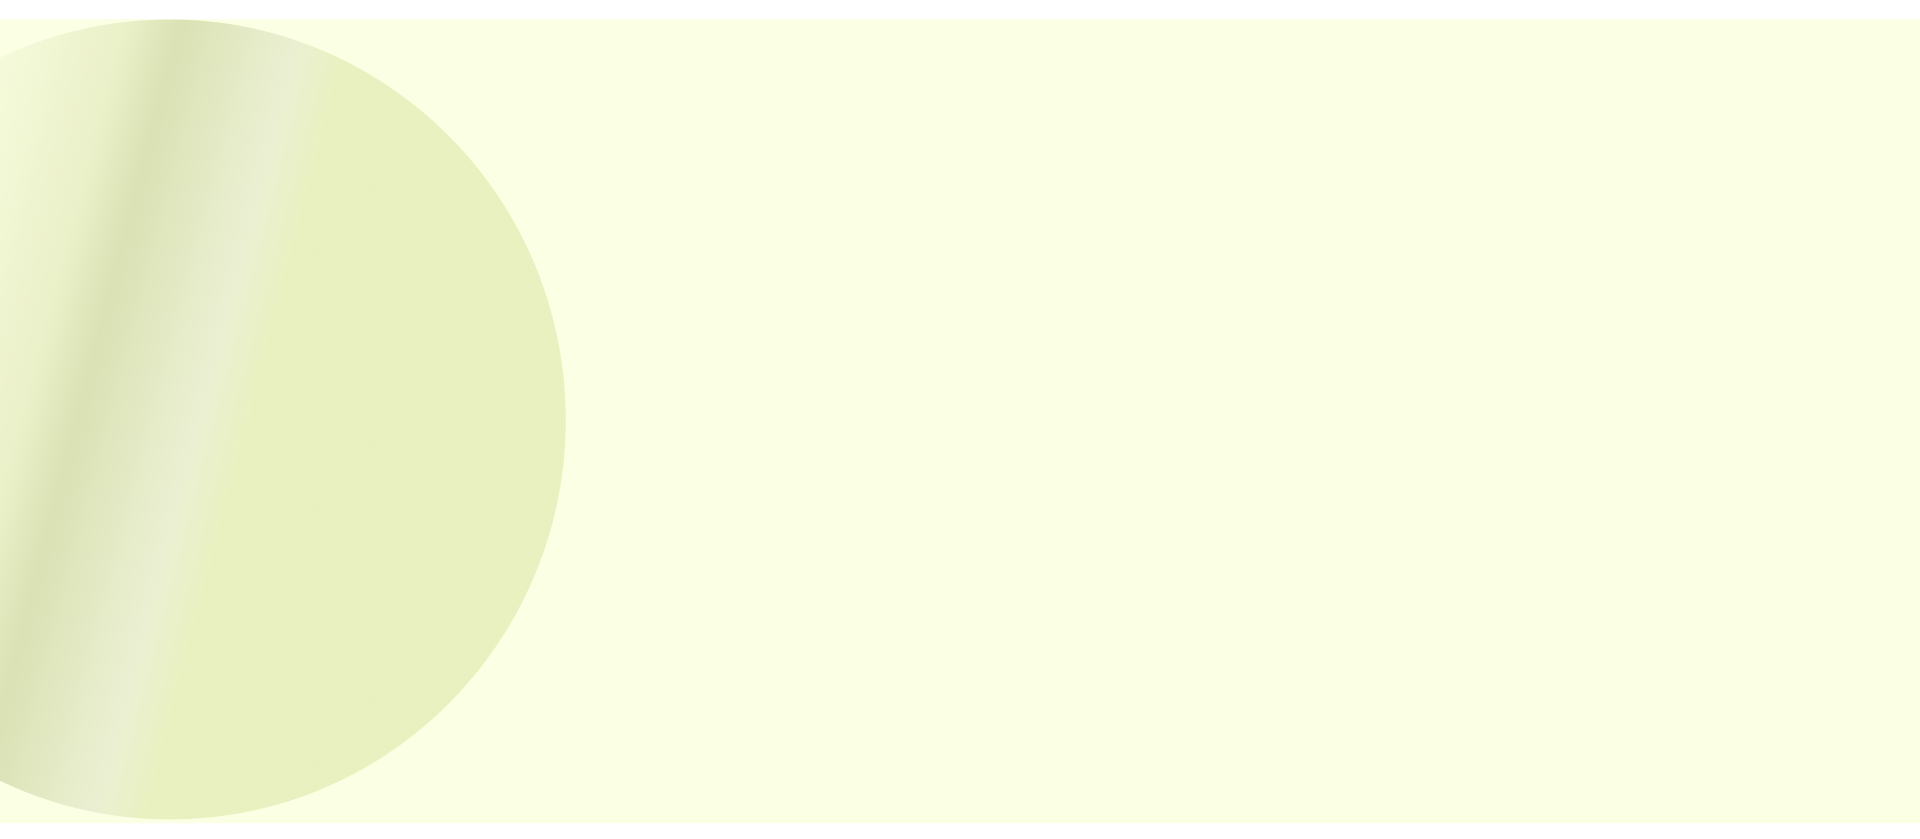
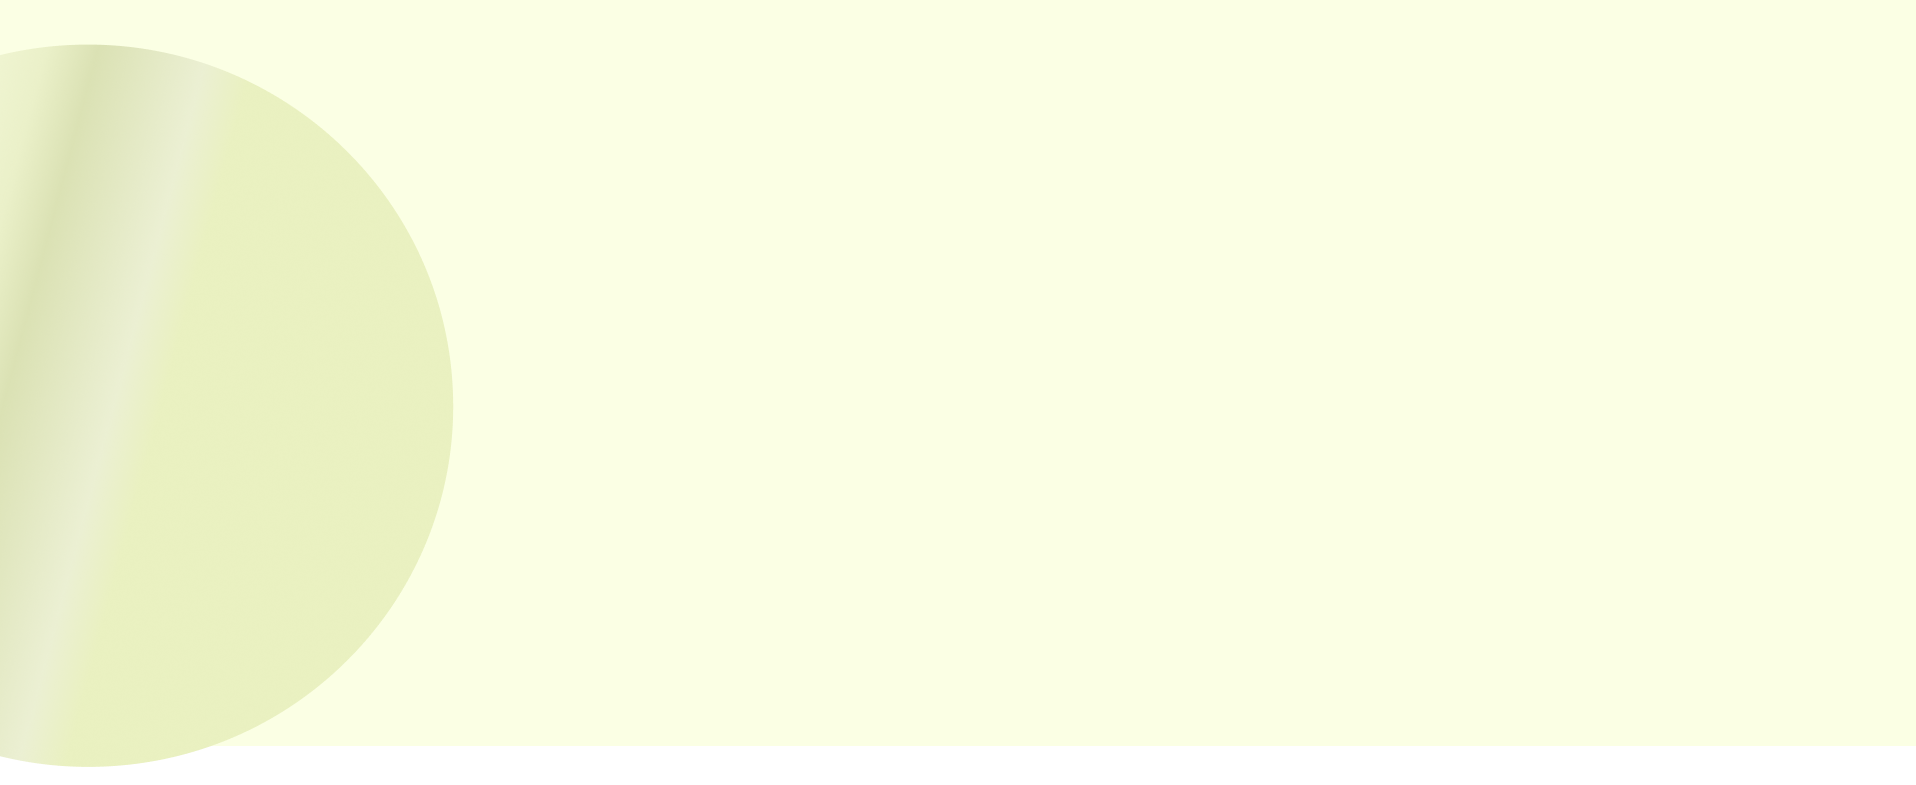
first commit

Changed region(s): [[0.0, 0.0, 1.0, 1.0]]

diff --git a/index.html b/index.html
@@ -113,8 +113,7 @@
                   </li>
                   <li class="nav-item">
                     <a class="nav-link" aria-current="page" href="#contact__section">CONTACT</a>
-                  </li>
-                  
+                  </li>                  
             </ul> 
             <ul class="navbar-nav ms-auto mb-2 mb-lg-0"> 
                   <a type="button" class="btn btn-lg btn-dark" href="cart.html"> <svg width="20" height="20" viewBox="0 0 31 36" fill="none" xmlns="http://www.w3.org/2000/svg">
@@ -138,6 +137,7 @@
           </div>
 
           <div class="col-12 col-md-8">
+            
             <div class="position-relative home">
               <img
                 src="img/home.png"
@@ -149,6 +149,7 @@
               class="position-absolute image2"
                 alt="Vector graphic 1"
               />
+              
               <img
               src="img/home.png"
               class="position-absolute image3"
@@ -159,8 +160,8 @@
               class="position-absolute image4"
                 alt="Vector graphic 2"
               />
-            </div>
-          
+            </div>  
+               
           </div>
         </div>
       </div>
@@ -513,6 +514,7 @@
     </div>
  
   </div>
+  <script src="js/sccript.js"></script>
 
 
 

diff --git a/css/style.css b/css/style.css
@@ -81,8 +81,8 @@ background-color: white;
 .span2{
 background-color: #EBD96B;
 }
-.circle{
-background-image: url('../img/circle.png');
+.fashion{
+background-image: url('../img/circle2.png');
 background-repeat: no-repeat;
 background-size: cover;
 }
@@ -104,11 +104,7 @@ background-size: cover;
     top: 60px;
 }
 
-.fashion{
-    background-color: #FBFFE4;
-    height: 100vh;
-    padding-top: 30px;    
-}
+
 
 
 

diff --git a/js/sccript.js b/js/sccript.js
@@ -1,0 +1,1 @@
+alert('Stay tuned—launching soon!');

diff --git a/texuraDatabase/api.php b/texuraDatabase/api.php
@@ -1,0 +1,61 @@
+<?php
+// Include the database connection file
+require 'db.php';
+
+// Set response headers
+header("Content-Type: application/json");
+
+// Parse the HTTP method
+$method = $_SERVER['REQUEST_METHOD'];
+
+// Handle the incoming request
+switch ($method) {
+    case 'GET': // Fetch all products or a specific product
+        if (isset($_GET['id'])) {
+            $id = intval($_GET['id']);
+            $query = "SELECT * FROM products WHERE id = $id";
+        } else {
+            $query = "SELECT * FROM products";
+        }
+        $result = mysqli_query($conn, $query);
+        $data = mysqli_fetch_all($result, MYSQLI_ASSOC);
+        echo json_encode($data);
+        break;
+
+    case 'POST': // Add a new product
+        $input = json_decode(file_get_contents('php://input'), true);
+        $name = $input['name'];
+        $description = $input['description'];
+        $price = $input['price'];
+        $image = $input['image'];
+        $query = "INSERT INTO products (name, description, price, image) VALUES ('$name', '$description', $price, '$image')";
+        $result = mysqli_query($conn, $query);
+        echo json_encode(["success" => $result]);
+        break;
+
+    case 'PUT': // Update an existing product
+        $id = intval($_GET['id']);
+        $input = json_decode(file_get_contents('php://input'), true);
+        $name = $input['name'];
+        $description = $input['description'];
+        $price = $input['price'];
+        $image = $input['image'];
+        $query = "UPDATE products SET name = '$name', description = '$description', price = $price, image = '$image' WHERE id = $id";
+        $result = mysqli_query($conn, $query);
+        echo json_encode(["success" => $result]);
+        break;
+
+    case 'DELETE': // Delete a product
+        $id = intval($_GET['id']);
+        $query = "DELETE FROM products WHERE id = $id";
+        $result = mysqli_query($conn, $query);
+        echo json_encode(["success" => $result]);
+        break;
+
+    default:
+        echo json_encode(["message" => "Invalid request"]);
+        break;
+}
+
+// Close the database connection
+mysqli_close($conn);

diff --git a/texuraDatabase/db.php b/texuraDatabase/db.php
@@ -1,0 +1,16 @@
+<?php
+$servername = "localhost";
+$username = "root";
+$password = "";
+$dbname = "products";
+
+// Establish connection
+$conn = mysqli_connect($servername, $username, $password, $dbname);
+
+// Check connection
+if (!$conn) {
+    die("Database connection failed: " . mysqli_connect_error());
+}
+
+// Set character encoding
+mysqli_set_charset($conn, "utf8");
